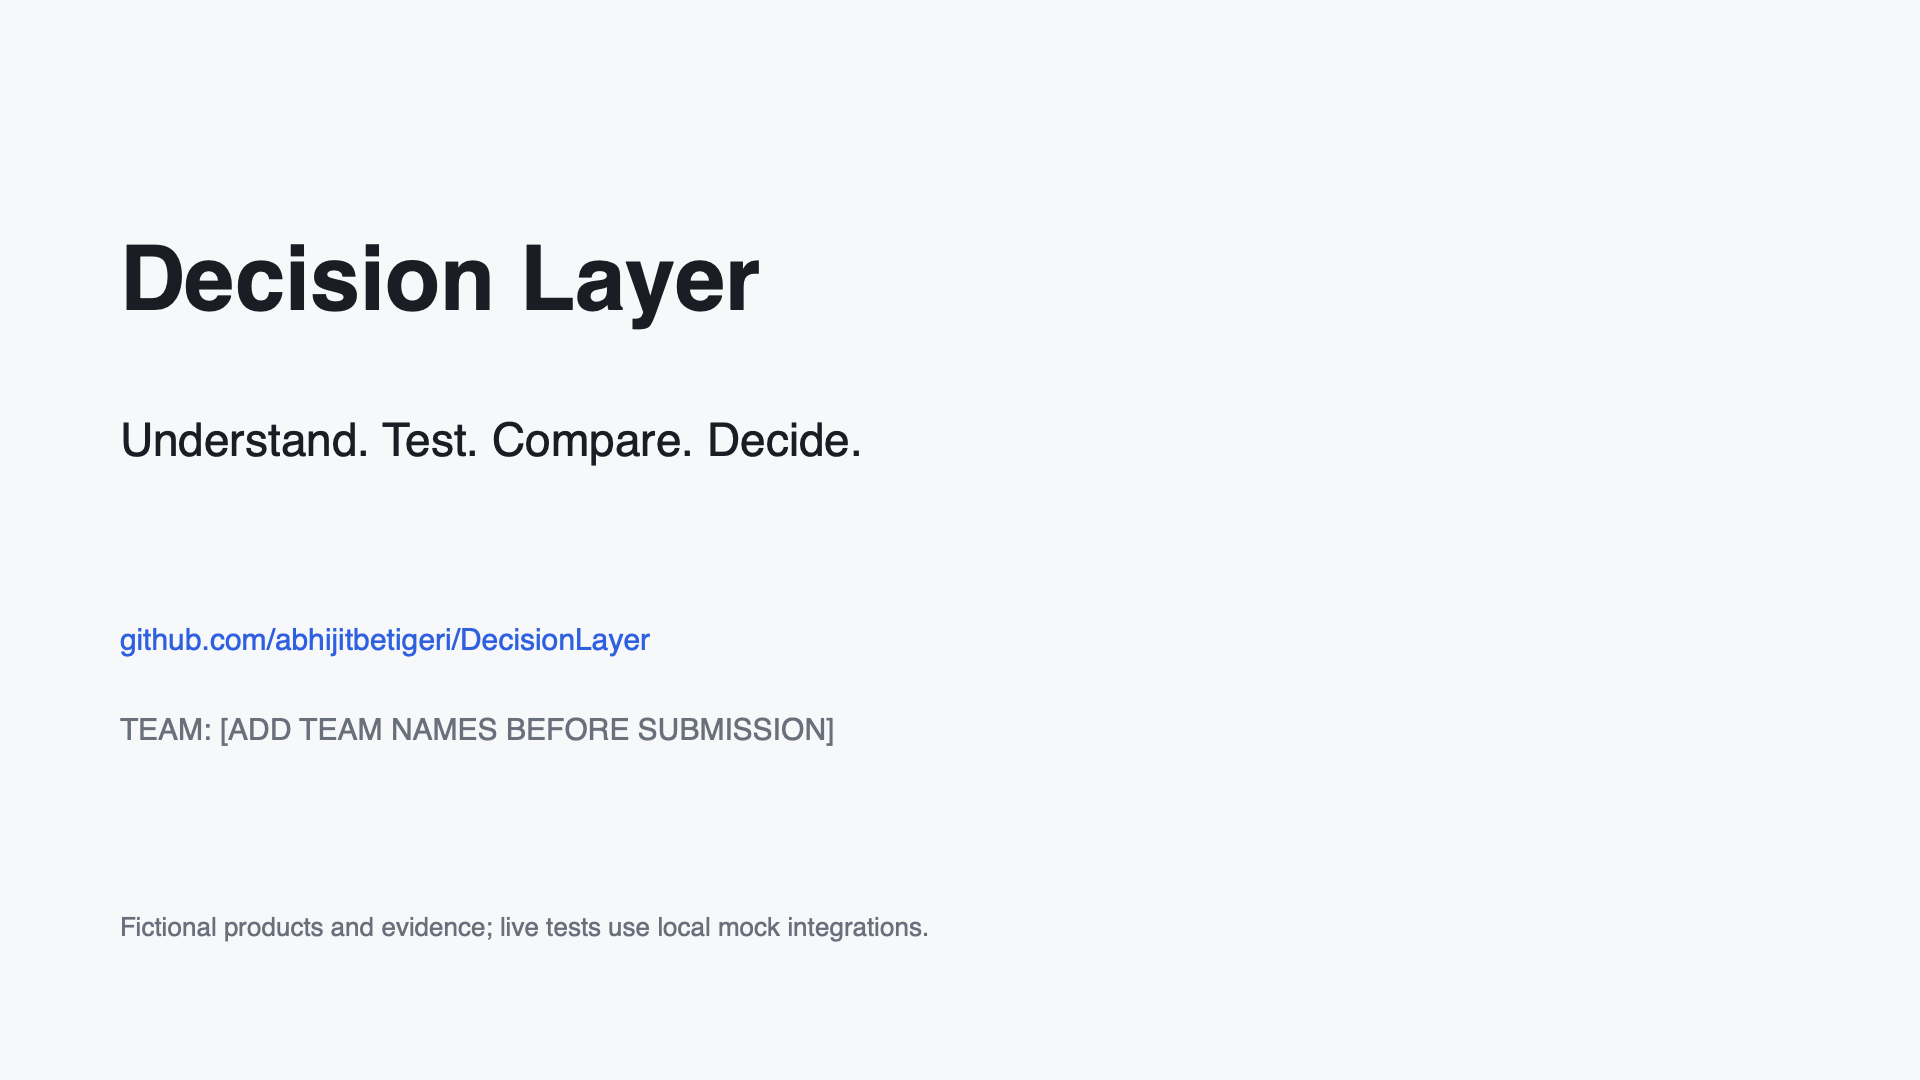
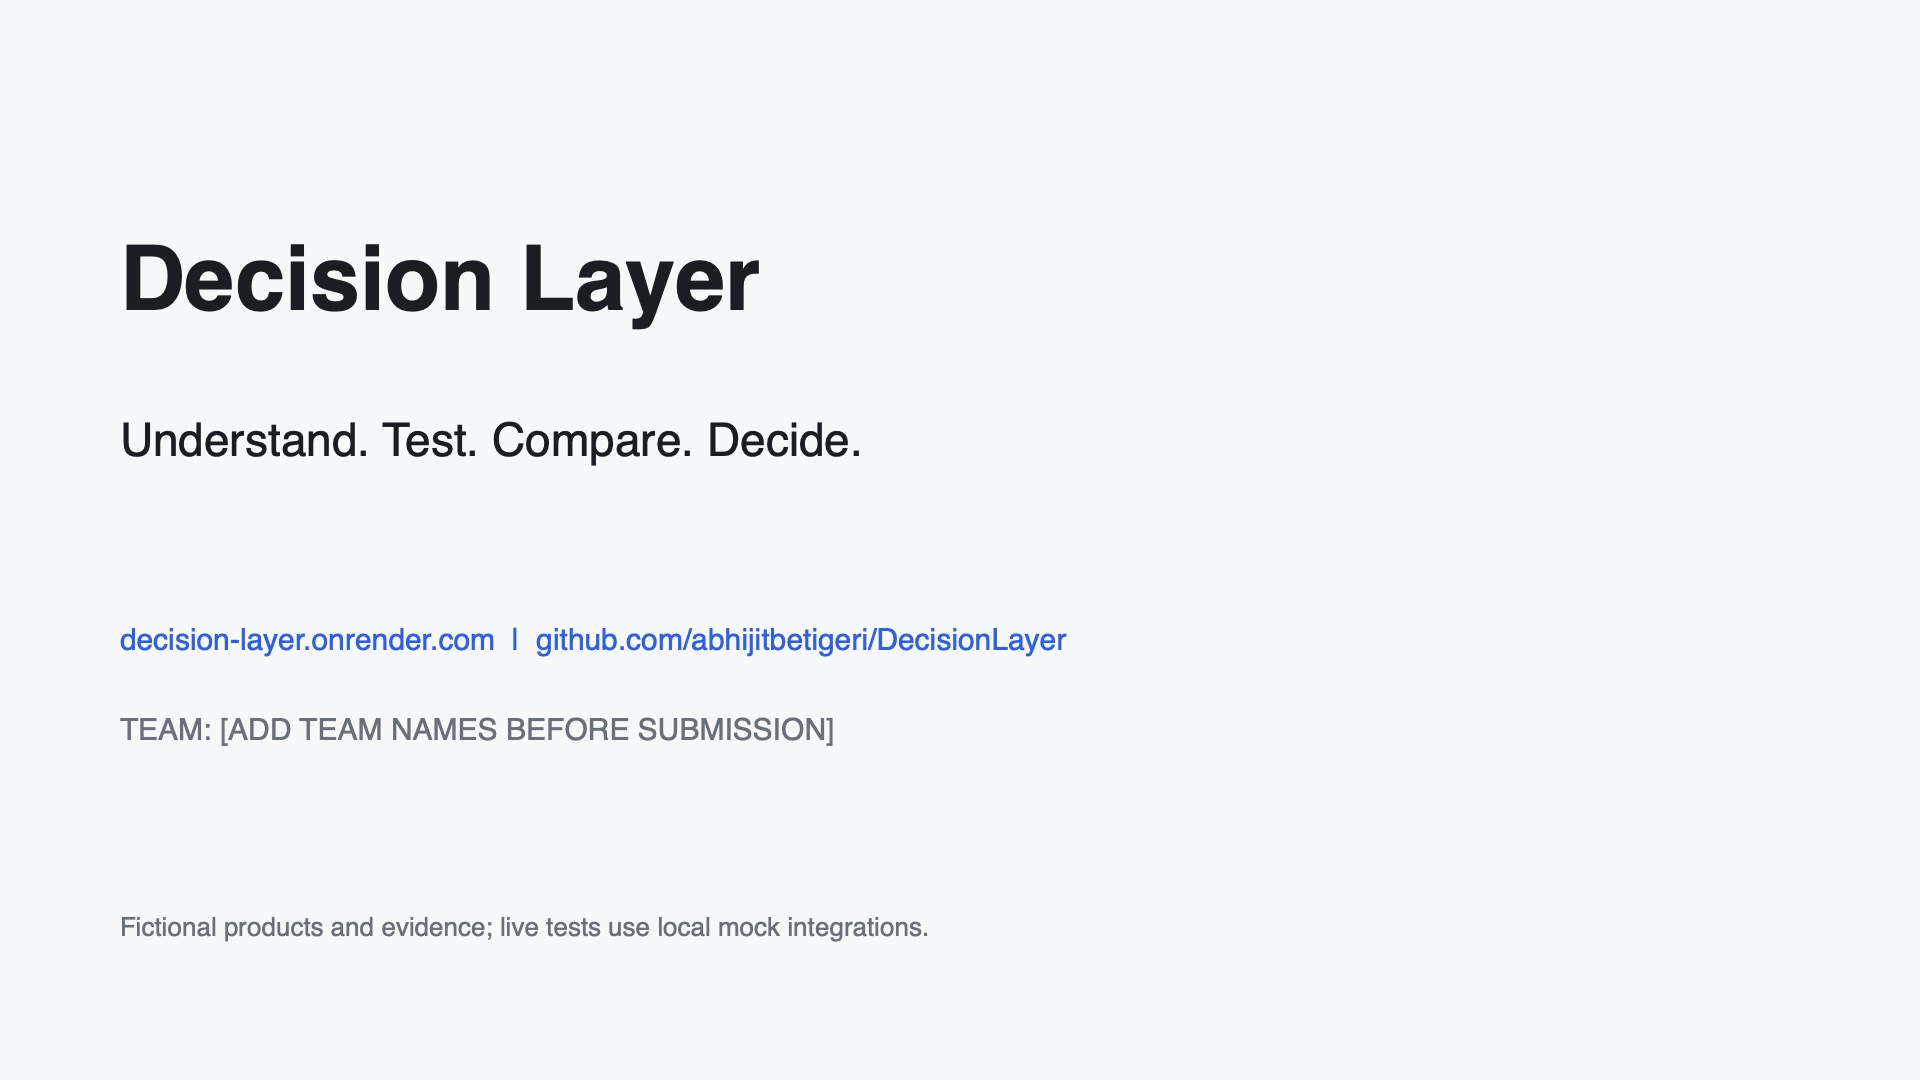
Live demo URL: decision-layer.onrender.com
Smoke script and headless browser journey pass against the deployed service.

Changed region(s): [[0.0625, 0.5806, 0.5625, 0.6111]]

diff --git a/proofpath/demo/build_assets.py b/proofpath/demo/build_assets.py
@@ -14,7 +14,7 @@ def save(name,items):
     if "--svg-only" not in sys.argv: render(scene,target)
 
 save("cards/title.png",[box(100,180,12,660,"2346d8"),text("DECISION LAYER",160,220,30,color="2346d8"),text("Evidence-driven enterprise\nsoftware evaluation",160,320,76,bold=True,height=240),text("Visitor Lab  +  Evaluation Workspace",160,630,36),text("A living website that demonstrates product fit.",160,740,32,color="565c69")])
-save("cards/end.png",[text("Decision Layer",120,220,90,bold=True,height=140),text("Understand. Test. Compare. Decide.",120,410,46),text("github.com/abhijitbetigeri/DecisionLayer",120,620,30,color="2346d8"),text("TEAM: [ADD TEAM NAMES BEFORE SUBMISSION]",120,710,30,color="565c69"),text("Fictional products and evidence; live tests use local mock integrations.",120,910,26,color="565c69")])
+save("cards/end.png",[text("Decision Layer",120,220,90,bold=True,height=140),text("Understand. Test. Compare. Decide.",120,410,46),text("decision-layer.onrender.com  |  github.com/abhijitbetigeri/DecisionLayer",120,620,30,color="2346d8"),text("TEAM: [ADD TEAM NAMES BEFORE SUBMISSION]",120,710,30,color="565c69"),text("Fictional products and evidence; live tests use local mock integrations.",120,910,26,color="565c69")])
 items=[text("Decision Layer | Living evaluation architecture",90,55,52,bold=True),text("Presentation can change. Facts, test outcomes, and decisions remain grounded.",90,145,28,color="565c69")]
 for x,title,body in [(90,"Optimization loop","Approved presentation\nExperiment > measure > refine\nCoframe-style, not integrated"),(690,"Evaluation Workspace","Brief > walkthrough > POC\nCompare > versioned report\nReview changes before approval"),(1290,"Visitor Lab","Buyer simulator\nClaim guard + deterministic oracle\nOpen-weight models on cloud")]:
     items += [box(x,300,540,370),box(x,300,540,8,"2346d8"),text(title,x+28,340,34,bold=True,width=490),text(body,x+28,435,27,width=490,height=190)]

diff --git a/proofpath/plan/README.md b/proofpath/plan/README.md
@@ -108,7 +108,9 @@ report. **Cut first:** Coframe, simulator chart, finance view polish, landing-pa
 
 Implemented decision history from stored snapshots, actionable owner-assigned evidence requests, historical source links with evaluation access checks, and a Visitor Lab results page at `/visitor-lab`. Recorded A/B measurements retain counts, intervals, provenance, and limitations. Missing/stub/invalid measurements are withheld.
 
-Verification: **91 automated tests passed**. Real Chrome acceptance passed US fit and EU uncertainty paths, live POCs, timelines, next steps, report generation, approved evidence change with frozen report history, desktop/mobile layouts, Visitor Lab results, and no page JavaScript errors. Run `uv run --with playwright python scripts/browser_acceptance.py` to reproduce. See [final rehearsal instructions](../demo/FINAL_DEMO.md). Actual video/audio recording and public deployment remain release work.
+Verification: **91 automated tests passed**. Real Chrome acceptance passed US fit and EU uncertainty paths, live POCs, timelines, next steps, report generation, approved evidence change with frozen report history, desktop/mobile layouts, Visitor Lab results, and no page JavaScript errors. Run `uv run --with playwright python scripts/browser_acceptance.py` to reproduce. See [final rehearsal instructions](../demo/FINAL_DEMO.md). Final narration/video editing and public deployment remain release work.
+
+Recording support is now implemented and exercised: add `--record` to capture a labeled real walkthrough and screenshots in `proofpath/demo/recordings/` (ignored generated artifacts). The final narrated edit and public deployment remain release work.
 
 | Workstream | State | Notes |
 |---|---|---|

diff --git a/proofpath/plan/EXTERNAL_AGENTS.md b/proofpath/plan/EXTERNAL_AGENTS.md
@@ -2,7 +2,7 @@
 
 ## Final sprint handoff
 
-Decision timeline, owner-assigned next steps, historical evidence links, and Visitor Lab's measured comparison page are implemented. The latest verification passed 91 automated tests and the desktop/mobile Chrome journey. Read [the main implementation update](../README.md#final-two-hour-implementation-update), [status board](README.md#final-two-hour-enhancements), and [final demo script](../demo/FINAL_DEMO.md) before assigning more work. Remaining release tasks are actual video/audio recording, final team/URL asset updates, timed rehearsal, and host deployment verification. Do not rebuild completed features or launch duplicate workstreams.
+Decision timeline, owner-assigned next steps, historical evidence links, and Visitor Lab's measured comparison page are implemented. The latest verification passed 91 automated tests and the desktop/mobile Chrome journey. A repeatable labeled browser-recording command and local walkthrough footage are also available; see `scripts/browser_acceptance.py --record`. Read [the main implementation update](../README.md#final-two-hour-implementation-update), [status board](README.md#final-two-hour-enhancements), and [final demo script](../demo/FINAL_DEMO.md) before assigning more work. Remaining release tasks are narration/final video editing, final team/URL asset updates, timed rehearsal, and host deployment verification. Do not rebuild completed features or launch duplicate workstreams.
 
 WS6, WS7, and WS8 were launched through the assistant's available collaboration tools in this
 session. The terminal prompts below remain an alternative for future sessions; do not launch

diff --git a/proofpath/README.md b/proofpath/README.md
@@ -34,7 +34,9 @@ Verification at completion: **91 automated tests passed**. Real Chrome acceptanc
 
 Reproduce browser checks with `uv run --with playwright python scripts/browser_acceptance.py`; it uses installed Chrome, temporary data, port 8021, and disabled model calls. Follow [the final four-minute demo script](demo/FINAL_DEMO.md). See [acceptance evidence](ACCEPTANCE.md) for the scope of checks.
 
-Remaining release work: record the screen and narration, insert final team names and public URL into assets, rehearse within four minutes, and verify deployment once Docker/host access is available. Real-model availability and production readiness remain separate checks. Preserve the working local journey instead of adding new connectors or broad crawling before submission.
+The repeatable recording command is implemented: `uv run --with playwright python scripts/browser_acceptance.py --record`. It captures a labeled real Chrome walkthrough and screenshots to `proofpath/demo/recordings/`, using temporary synthetic data and rule-based evaluation. Generated media is excluded from Git; see `demo/FINAL_DEMO.md` for encoder setup and output options.
+
+Remaining release work: record narration and edit the final submission, insert final team names and public URL into assets, rehearse within four minutes, and verify deployment once Docker/host access is available. Real-model availability and production readiness remain separate checks. Preserve the working local journey instead of adding new connectors or broad crawling before submission.
 
 ## Product in one sentence
 

diff --git a/README.md b/README.md
@@ -22,6 +22,8 @@ Second Visitor is a multi-agent wind tunnel for a website:
 
 See [ARCHITECTURE.md](ARCHITECTURE.md) for the design and current results.
 
+**Live demo:** https://decision-layer.onrender.com (fictional products; models off in the public build, so the buyer agent shows a labeled rule-based evaluation; the free instance sleeps when idle, first load takes about a minute).
+
 ## Quick start
 
 ```bash
